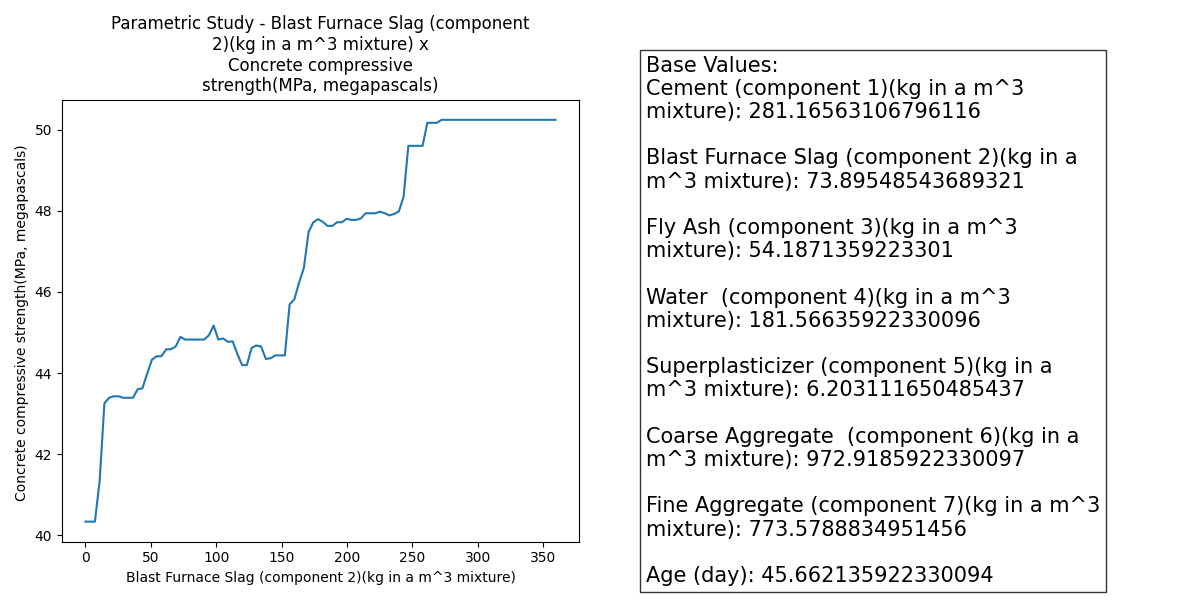
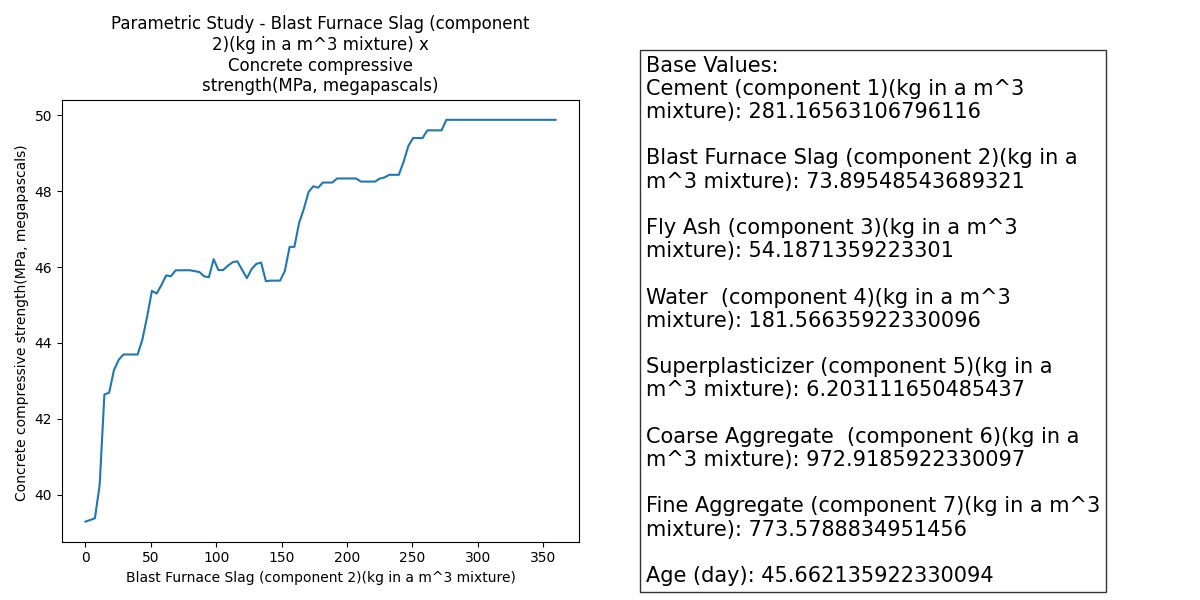
Added message in parametric plot function and uncommented code to run full process on Concrete dataset

diff --git a/results/Concrete Compressive Strength_results.html b/results/Concrete Compressive Strength_results.html
@@ -63,49 +63,49 @@
                 
                 <tr>
                     <td>RandomForestRegressor</td>
-                    <td>0.8845496324580608</td>
-                    <td>29.749376329036725</td>
-                    <td>1.2047033309936523</td>
-                    <td>0.015951156616210938</td>
+                    <td>0.8811075140055945</td>
+                    <td>30.63634515721602</td>
+                    <td>0.9576451778411865</td>
+                    <td>0.00704503059387207</td>
                 </tr>
                 
                 <tr>
                     <td>PolynomialRegression</td>
                     <td>0.8437171596477429</td>
                     <td>40.27113235236021</td>
-                    <td>0.08623075485229492</td>
-                    <td>0.0010256767272949219</td>
+                    <td>0.06606817245483398</td>
+                    <td>0.0010001659393310547</td>
                 </tr>
                 
                 <tr>
                     <td>DecisionTreeRegressor</td>
-                    <td>0.8256250667078598</td>
-                    <td>44.93312254700354</td>
-                    <td>0.013137102127075195</td>
-                    <td>0.0009276866912841797</td>
-                </tr>
-                
-                <tr>
-                    <td>MLPRegressor</td>
-                    <td>0.7944142611507401</td>
-                    <td>52.97555688324636</td>
-                    <td>0.718529224395752</td>
-                    <td>0.0</td>
+                    <td>0.8089405268528531</td>
+                    <td>49.23241293118615</td>
+                    <td>0.010610580444335938</td>
+                    <td>0.0009999275207519531</td>
                 </tr>
                 
                 <tr>
                     <td>KNeighborsRegressor</td>
                     <td>0.7367656460145194</td>
                     <td>67.83051475864876</td>
-                    <td>0.0009992122650146484</td>
-                    <td>0.0009565353393554688</td>
+                    <td>0.0008940696716308594</td>
+                    <td>0.002064943313598633</td>
+                </tr>
+                
+                <tr>
+                    <td>MLPRegressor</td>
+                    <td>0.7276413346984714</td>
+                    <td>70.18167722667468</td>
+                    <td>0.6609389781951904</td>
+                    <td>0.0</td>
                 </tr>
                 
                 <tr>
                     <td>Lasso</td>
                     <td>0.6275771642976492</td>
                     <td>95.96632153476254</td>
-                    <td>0.002003192901611328</td>
+                    <td>0.0010023117065429688</td>
                     <td>0.0</td>
                 </tr>
                 
@@ -113,7 +113,7 @@
                     <td>Ridge</td>
                     <td>0.6275417727142361</td>
                     <td>95.97544127648581</td>
-                    <td>0.0008919239044189453</td>
+                    <td>0.0009813308715820312</td>
                     <td>0.0</td>
                 </tr>
                 
@@ -121,7 +121,7 @@
                     <td>LinearRegression</td>
                     <td>0.6275416055429022</td>
                     <td>95.97548435337701</td>
-                    <td>0.000997304916381836</td>
+                    <td>0.0009984970092773438</td>
                     <td>0.0</td>
                 </tr>
                 
@@ -129,16 +129,16 @@
                     <td>SVR</td>
                     <td>0.2320261036920902</td>
                     <td>197.89234922826205</td>
-                    <td>0.04537248611450195</td>
-                    <td>0.028620243072509766</td>
+                    <td>0.031119823455810547</td>
+                    <td>0.017696619033813477</td>
                 </tr>
                 
                 <tr>
                     <td>GaussianProcessRegressor</td>
                     <td>-3.622950128649361</td>
                     <td>1191.2468193537684</td>
-                    <td>0.10190939903259277</td>
-                    <td>0.015697240829467773</td>
+                    <td>0.07738685607910156</td>
+                    <td>0.013841629028320312</td>
                 </tr>
                 
             </tbody>

diff --git a/main.py b/main.py
@@ -20,7 +20,7 @@ models = [regression.GaussianProcessRegressor(),
           regression.KNeighborsRegressor(),
           regression.Ridge(),
           regression.LinearRegression(),
-        #   regression.MLPRegressor(),
+          regression.MLPRegressor(),
           regression.PolynomialRegression(),
           regression.SVR(),
           regression.DecisionTreeRegressor(),
@@ -50,9 +50,9 @@ def main():
             best_r2 = score['r2']
         scores.append(score)
 
-    # scores.sort(key=lambda x: x['mse'])
+    scores.sort(key=lambda x: x['mse'])
 
-    # render.render_results_html(dataset_info, scores, f"results/{dataset_info['name']}_results.html")
+    render.render_results_html(dataset_info, scores, f"results/{dataset_info['name']}_results.html")
     
     stats, results = utils.regression_parametric_study(top_model, dataset, dataset_info['target'])
 

diff --git a/output/render.py b/output/render.py
@@ -83,3 +83,4 @@ def plot_parametric_graphs(stats: pd.DataFrame, results: dict, target: str, dire
 
         plt.savefig(os.path.join(save_dir, f"{column}.png"))
         plt.close()
+    print("Parametric plots saved in directory: " + save_dir)
